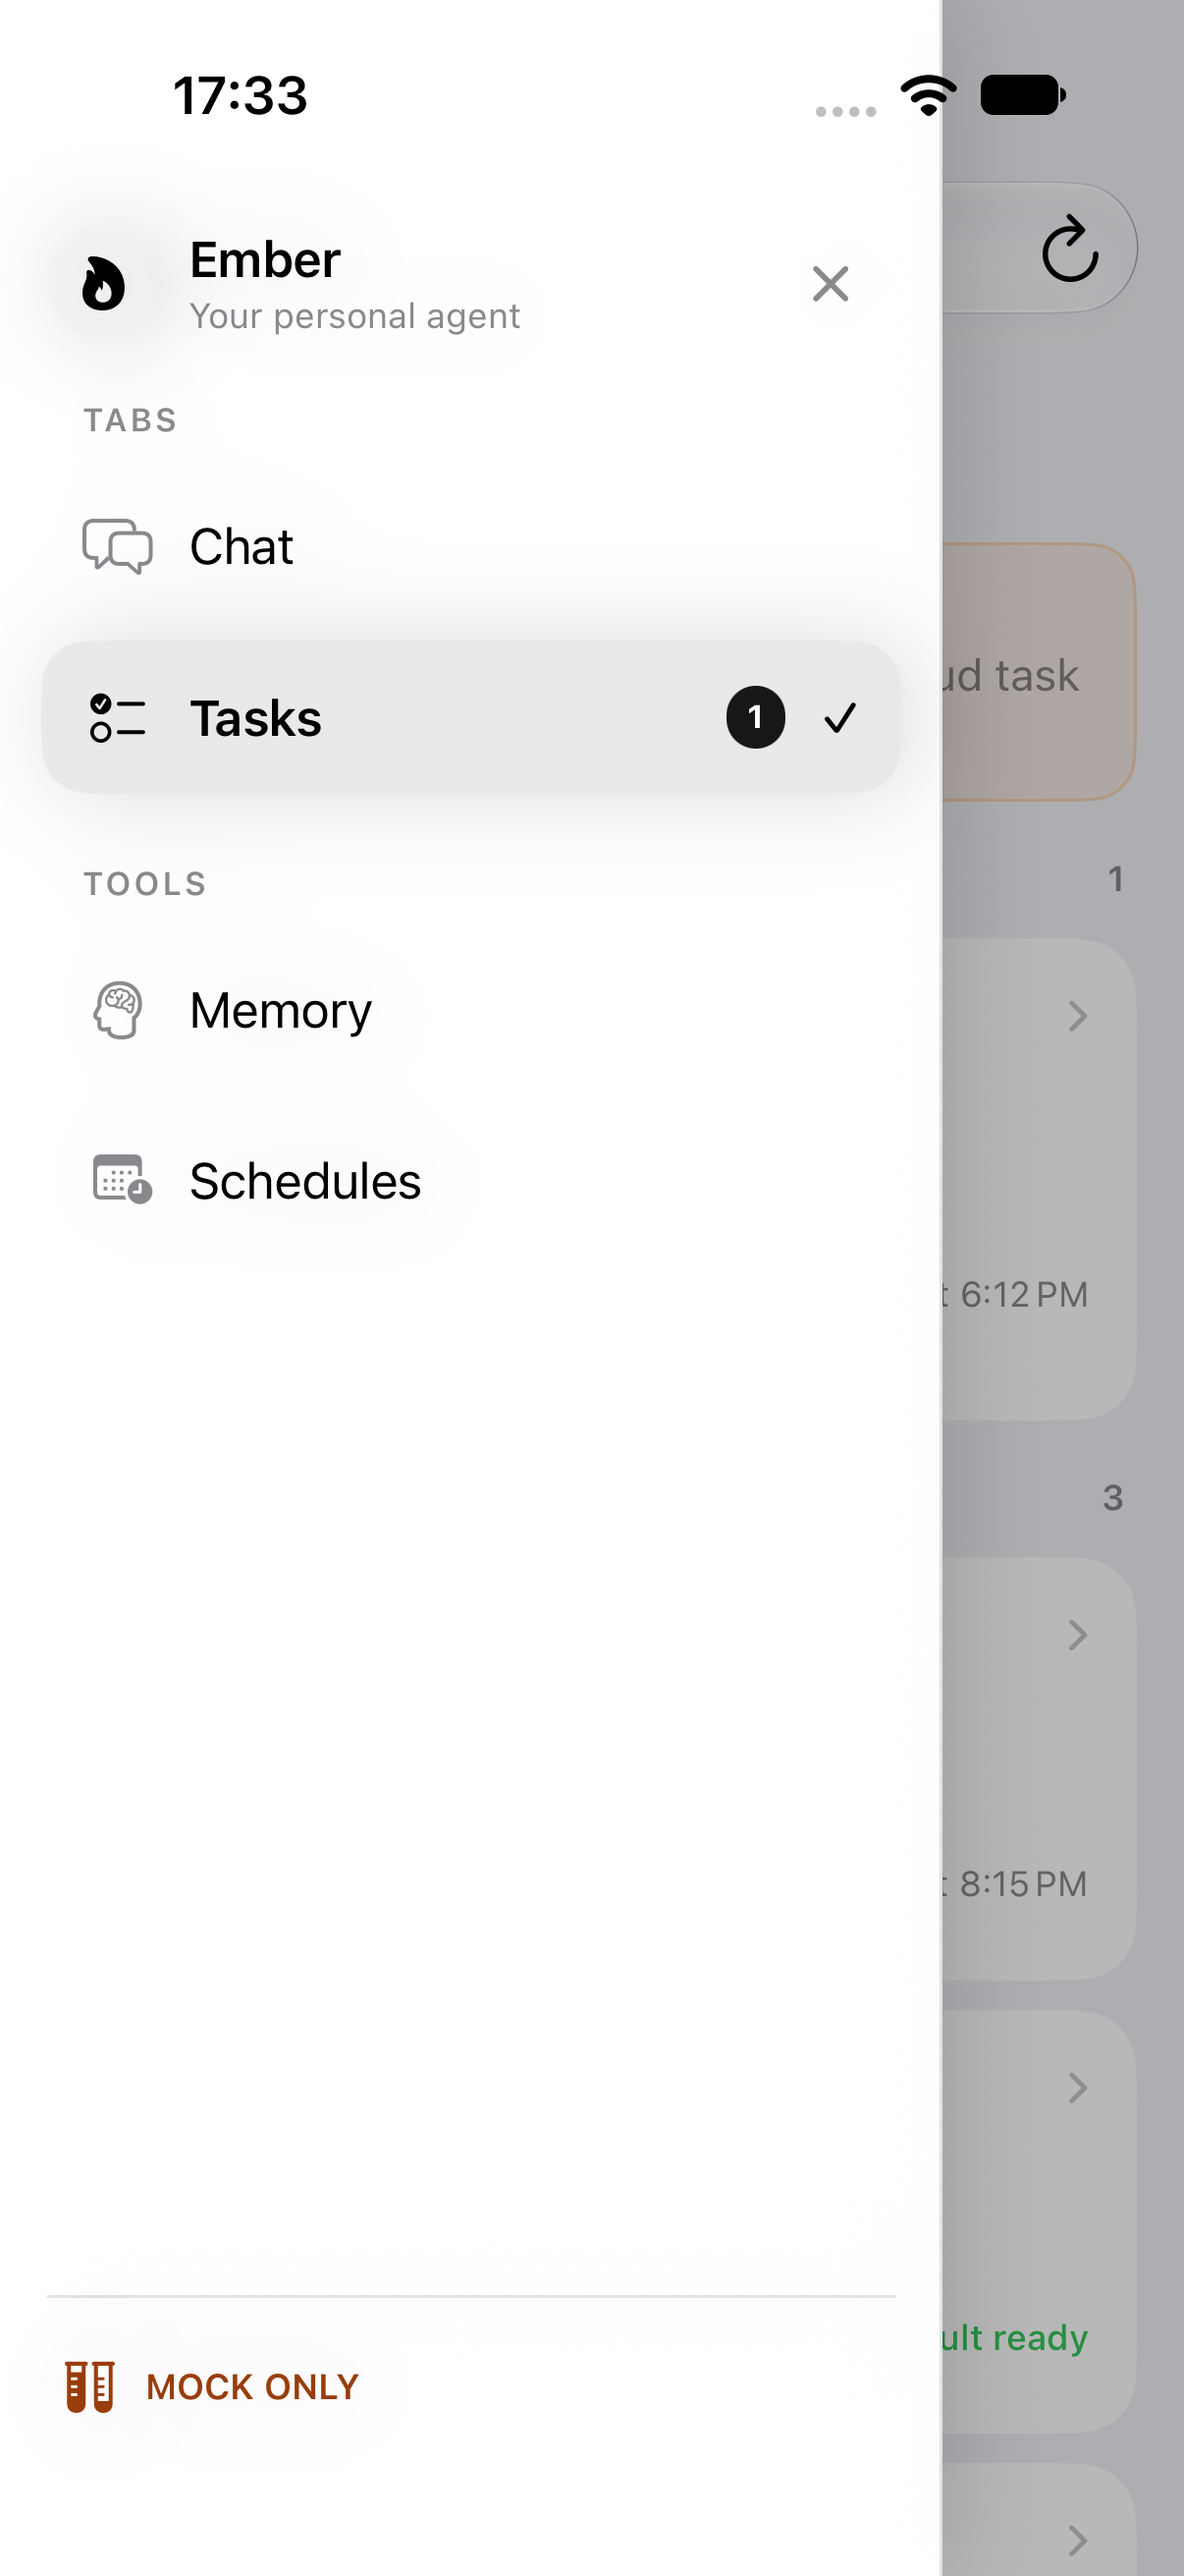
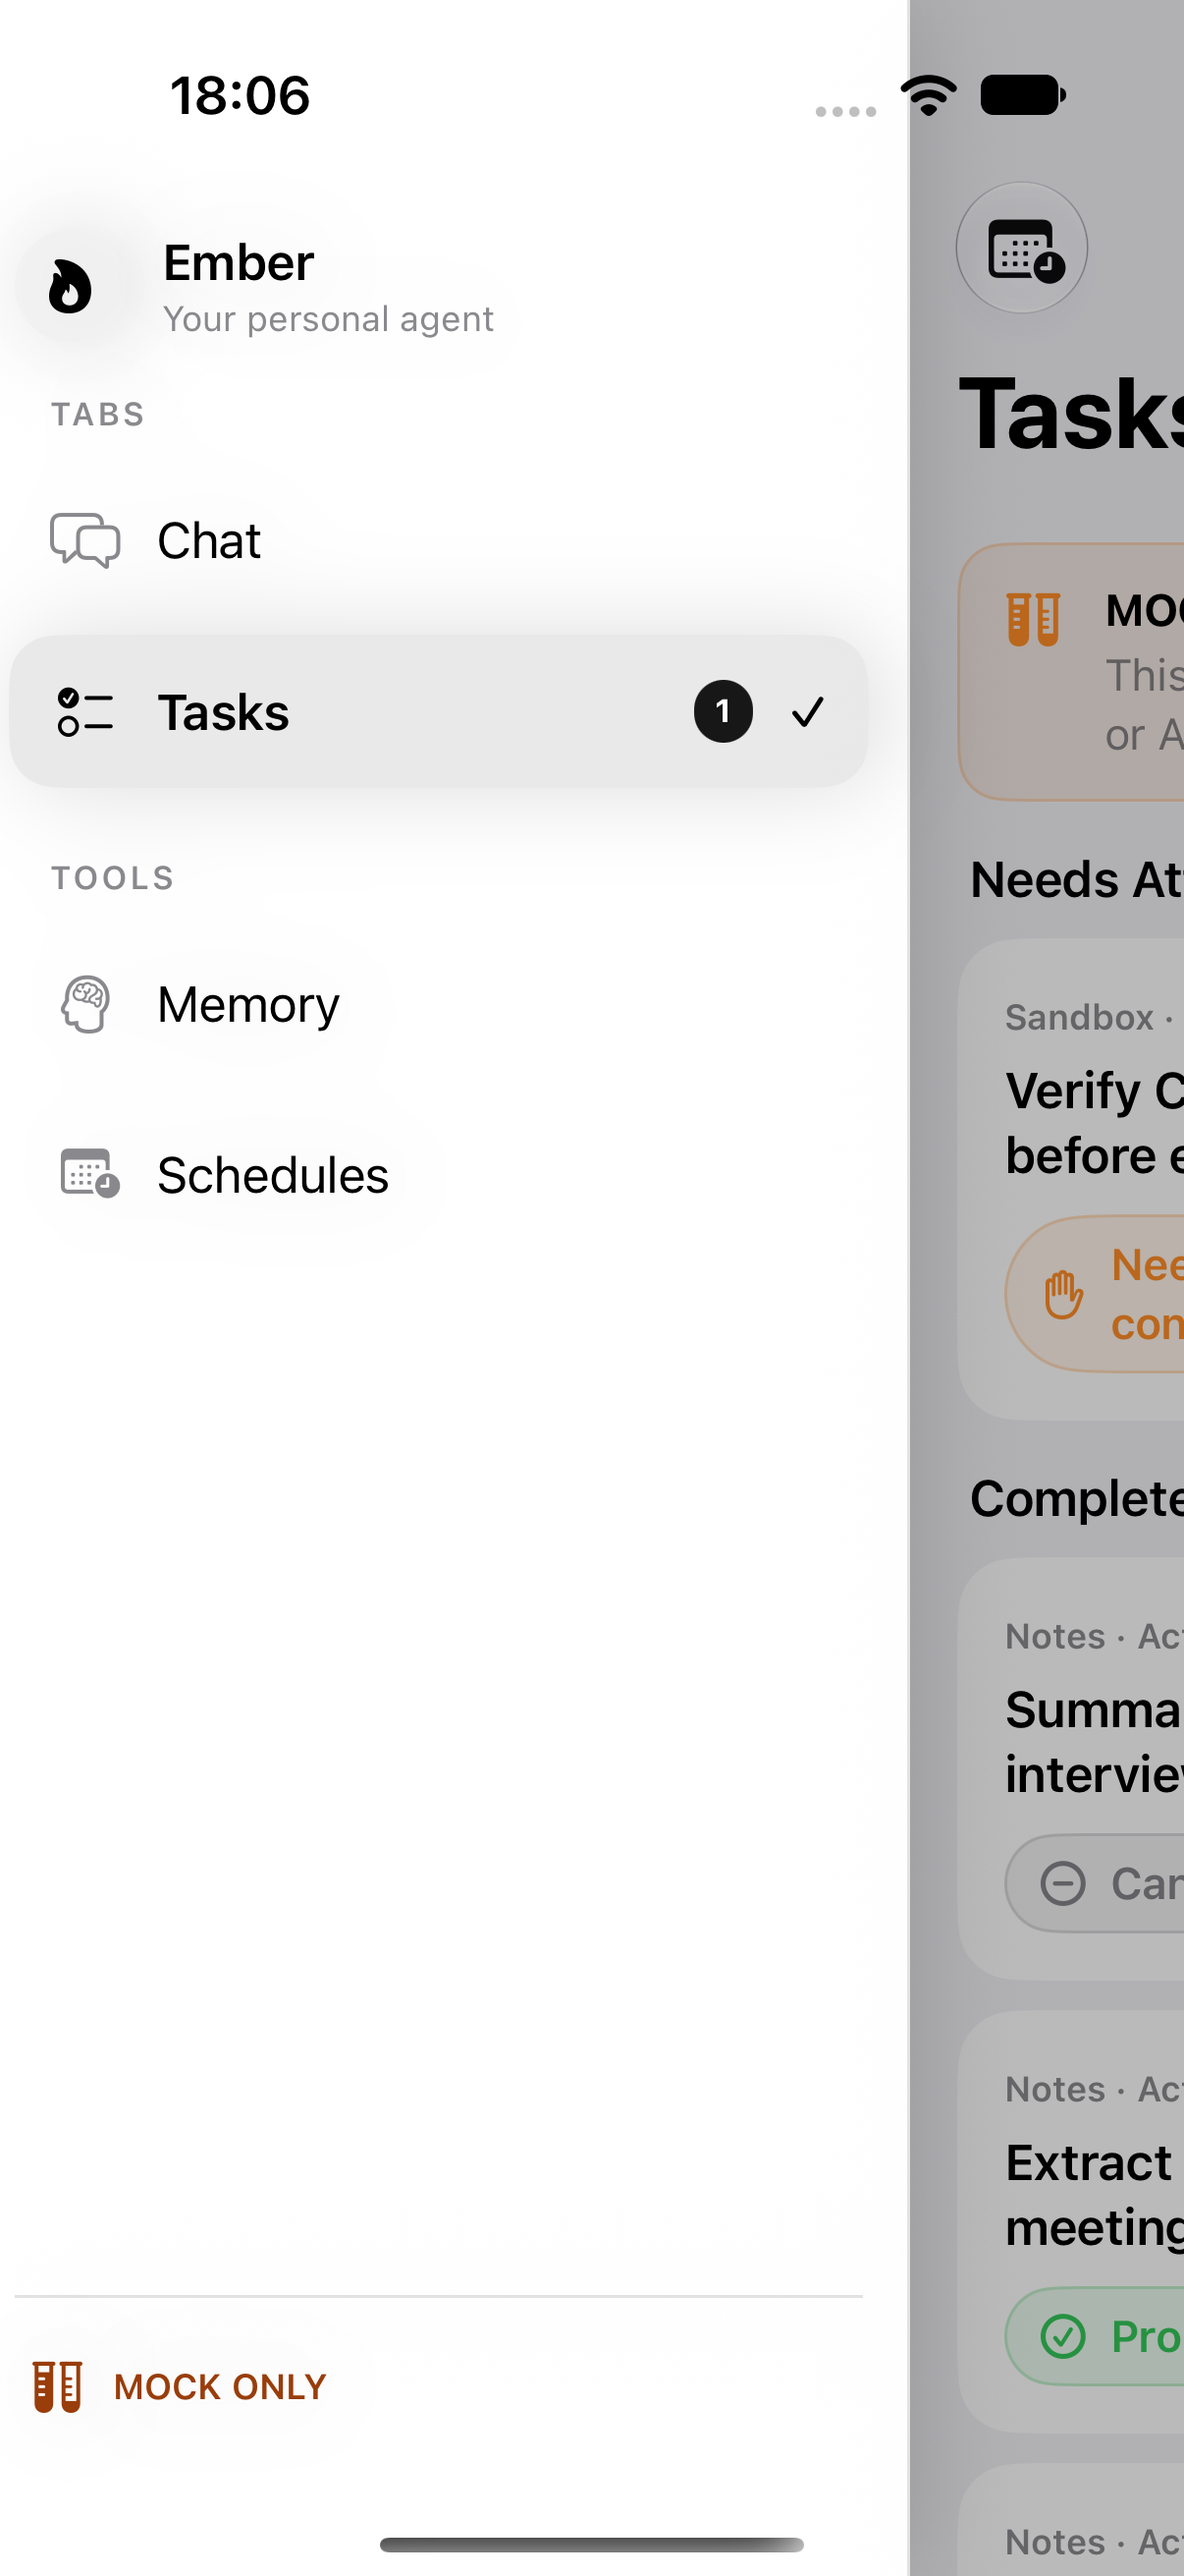
docs(ios): update NAV-02 PR #284 evidence for edge-swipe drawer

diff --git a/apps/ios/evidence/nav02-pr284/README.md b/apps/ios/evidence/nav02-pr284/README.md
@@ -1,50 +1,46 @@
 # NAV-02 PR #284 Simulator Verification Evidence
 
-Verified on commit `7402e2945c76385e80f182586962fc0f74965804` (`feat/ios-nav02-sidebar-directory`), and additionally verified in a clean temporary local merge (`PR #287 @ 9b407260eddc30ff717373a3d083a23a8d4dc46e` + `PR #284 @ 7402e2945c76385e80f182586962fc0f74965804`).
+Verified on commit `f2296549f9cf40c890b39a3ab2cf2e6caf2acd57` (`feat/ios-nav02-sidebar-directory`), and additionally verified in a clean temporary local merge (`PR #287 @ 9b407260eddc30ff717373a3d083a23a8d4dc46e` + `PR #284 @ f2296549f9cf40c890b39a3ab2cf2e6caf2acd57`).
 
-## Highlights Fixed & Verified
-- **Visual V1 Monochrome Unification**: Aligned `EmberSidebarOverlay`, `ConversationScreen` Chat sidebar trigger, and `TaskInboxView` Tasks sidebar trigger with the Founder-selected Black / White / Grayscale palette while keeping amber `MOCK ONLY` disclosure and red destructive Sign Out action outside mock mode.
-- **Backdrop Hit-Testing & Dismissal**: Constrained `ember-sidebar-backdrop` interactive hit/accessibility frame to the exposed trailing scrim strip (`x >= drawerWidth`) so tapping the dimmed backdrop never overlaps the Sidebar drawer rows while the full-screen dim scrim continues to absorb taps cleanly, alongside close button (`>= 44pt`), left-drag gesture, and `.accessibilityAction(.escape)`.
-- **Navigation, Localization & Tasks Toolbar Separation**: Moved `ember-sidebar-open-tasks` cleanly into `.topBarLeading` and `tasks-open-schedules` into `.topBarTrailing` when Sidebar wiring is active; fixed `zh-Hans` localization (`"你的个人 AI 助手"`, `"标签页"`, `"工具"`); and verified unsent Chat draft + mutated Tasks state persist across Sidebar switches (`Chat <-> Tasks <-> Memory <-> Schedules`).
+## Interaction & Visual Design Highlights
+- **Interactive Edge-Swipe Drawer (ChatGPT / Shua CoPaper style):**
+  - Removed the top-left hamburger toggle button from Chat and Tasks headers and removed the drawer header close (`X`) button — Chat retains its clean monochrome emblem, and Tasks keeps `tasks-open-schedules` cleanly in `.topBarLeading`.
+  - **Left-edge swipe to open (`x <= 40pt`, left-to-right):** UIKit `UIPanGestureRecognizer` bridge (`SidebarSwipeBridge`) attached seamlessly on `UIWindow` tracks the finger 1:1 with `Transaction(disablesAnimations: true)` and settles cleanly with `.interpolatingSpring(stiffness: 320, damping: 34, initialVelocity: ...)` while shifting the main `TabView` horizontally in sync and dimming the exposed peek.
+  - **Right-to-left swipe to close (anywhere) + scrim tap:** Tracks 1:1 from open back to closed; preserves vertical scrolling inside `ScrollView` (via `shouldBeRequiredToFailBy` / velocity direction lock) and keeps pushed child detail views (`TaskDetailView`) free for native iOS interactive swipe-back (`canSwipeOpenFromEdge` checks empty navigation paths and no presented modal).
+- **Visual V1 Monochrome & Localization:**
+  - `EmberSidebarOverlay` matches the Black / White / Grayscale palette (`#FFFFFF`/`#202020`, `#F3F3F3`/`#292929`, `#E9E9E9`/`#383838`, `#E3E3E3`/`#454545`), preserving amber `MOCK ONLY` disclosure and red Sign Out outside Mock mode.
+  - All Sidebar labels (`"你的个人 AI 助手"`, `"标签页"`, `"工具"`) resolve natively in `zh-Hans` and adapt under `AXLarge` and Dark Mode.
 
 ## Test Commands & Observed Results (iOS 27.2 Simulator)
 
-1. **PR #284 (`7402e2945c76385e80f182586962fc0f74965804`) — `iPhone 18 Pro` (`402pt`, Light, EN + `zh-Hans` AXLarge):**
-   ```bash
-   xcodebuild test -project apps/ios/Ember.xcodeproj -scheme Ember \
-     -destination "platform=iOS Simulator,id=8A4CCF42-FD5C-4CCE-B6B8-05E967E552EF" \
-     -derivedDataPath /tmp/ember-pr284-deriveddata \
-     -only-testing:EmberUITests/EmberSidebarUITests \
-     -only-testing:EmberUITests/B3ChatTasksIntegrationUITests \
-     -only-testing:EmberUITests/ConversationRootLaunchUITests
-   ```
+1. **PR #284 (`f2296549f9cf40c890b39a3ab2cf2e6caf2acd57`) — `iPhone 18 Pro` (`402pt`, Light, EN + `zh-Hans` `AXLarge`):**
    - `EmberSidebarUITests`: **3/3 passed** (0 failures)
    - `B3ChatTasksIntegrationUITests`: **5/5 passed** (0 failures)
    - `ConversationRootLaunchUITests`: **4/4 passed** (0 failures)
    - Total: **12/12 passed** (`** TEST SUCCEEDED **`)
 
-2. **PR #284 — Genuine Dark Mode (`xcrun simctl ui ... appearance dark`, `zh-Hans`, `UICTContentSizeCategoryAccessibilityLarge`, `402pt`):**
[1 lines of base64/hex data omitted]
+2. **PR #284 — Genuine System Dark Mode (`xcrun simctl ui ... appearance dark`, `zh-Hans`, `AXLarge`, `402pt`):**
[1 lines of base64/hex data omitted]
 
-3. **PR #284 — Small Screens (`375pt` `iPhone SE (3rd generation)` & `393pt` `iPhone 16`):**
+3. **PR #284 — Small Screens:**
    - `iPhone SE (3rd generation)` (`375pt`): `EmberSidebarUITests` **3/3 passed** (`** TEST EXECUTE SUCCEEDED **`)
[2 lines of base64/hex data omitted]
 
-4. **Combined Integration (`PR #287 @ 9b407260eddc30ff717373a3d083a23a8d4dc46e` + `PR #284 @ 7402e2945c76385e80f182586962fc0f74965804`):**
-   - `git merge-tree --write-tree origin/feat/ios-ux04-chat-monochrome-v1 7402e2945c76385e80f182586962fc0f74965804` exited `0` (tree `a3ddafe779e91c8257de7fd0fcba6be511551a1e`) with **0 textual merge conflicts** across all 3 shared files (`Conversation.xcstrings`, `ConversationScreen.swift`, `LiveConversationHost.swift`).
-   - Combined `test-without-building` on `iPhone 18 Pro` (`402pt`):
+4. **Combined Integration (`PR #287 @ 9b407260eddc30ff717373a3d083a23a8d4dc46e` + `PR #284 @ f2296549f9cf40c890b39a3ab2cf2e6caf2acd57`):**
+   - Shared files reduced to **2** (`Conversation.xcstrings` and `LiveConversationHost.swift`), with **0 textual merge conflicts** (`git merge-tree --write-tree` tree `7bbeeaaa216ab7206c13e76fd2d71bf9f9a9e878`).
+   - Combined `test` on `iPhone 18 Pro` (`402pt`):
      - `EmberChatMonochromeTokensTests`: **2/2 passed**
      - `EmberMonochromeChatUITests`: **4/4 passed**
      - `B3ChatTasksIntegrationUITests`: **5/5 passed**
      - `EmberSidebarUITests`: **3/3 passed**
-     - Total: **14/14 passed** (`** TEST EXECUTE SUCCEEDED **`)
+     - Total: **14/14 passed** (`** TEST SUCCEEDED **`)
 
 ## Screenshots
-- `01-sidebar-chat-light-402pt.png` — Light Mode, EN, `iPhone 18 Pro` (`1206x2622`), Sidebar open over Chat tab
-- `02-sidebar-tasks-light-402pt.png` — Light Mode, EN, `iPhone 18 Pro` (`1206x2622`), Sidebar open over Tasks tab (`tasks-open-schedules` moved to trailing, Sidebar selected on Tasks)
+- `01-sidebar-chat-light-402pt.png` — Light Mode, EN, `iPhone 18 Pro` (`1206x2622`), edge-swipe Sidebar open alongside shifted Chat
+- `02-sidebar-tasks-light-402pt.png` — Light Mode, EN, `iPhone 18 Pro` (`1206x2622`), edge-swipe Sidebar open alongside shifted Tasks
 - `03-sidebar-chat-dark-zhhans-axlarge-402pt.png` — System Dark Mode, `zh-Hans`, `AXLarge`, `iPhone 18 Pro` (`1206x2622`)
 - `04-sidebar-chat-light-393pt-iphone16.png` — Light Mode, EN, `iPhone 16` (`393pt`)
-- `05-sidebar-chat-light-375pt-iphonese3.png` — Light Mode, EN, `iPhone SE (3rd generation)` (`375pt`, Sidebar open over Chat)
-- `06-sidebar-tasks-light-375pt-iphonese3.png` — Light Mode, EN, `iPhone SE (3rd generation)` (`375pt`, Sidebar open over Tasks)
-- `07-combined-pr287-pr284-chat-sidebar-light-402pt.png` — Combined `#287 + #284` build, Light Mode, EN, `iPhone 18 Pro`, expanded monochrome Sidebar over Visual V1 monochrome Chat
-- `08-combined-pr287-pr284-chat-monochrome-header-402pt.png` — Combined `#287 + #284` build, Light Mode, EN, `iPhone 18 Pro`, active Chat showing monochrome `ember-sidebar-open-chat` header button and timeline cards
+- `05-sidebar-chat-light-375pt-iphonese3.png` — Light Mode, EN, `iPhone SE (3rd generation)` (`375pt`)
+- `06-sidebar-tasks-light-375pt-iphonese3.png` — Light Mode, EN, `iPhone SE (3rd generation)` (`375pt`)
+- `07-combined-pr287-pr284-chat-sidebar-light-402pt.png` — Combined `#287 + #284`, Light Mode, EN, `iPhone 18 Pro`, monochrome Chat shifted cleanly beside edge-swipe Sidebar
+- `08-combined-pr287-pr284-chat-monochrome-header-402pt.png` — Combined `#287 + #284`, Light Mode, EN, `iPhone 18 Pro`, active Chat header cleanly restored without top-left toggle button
